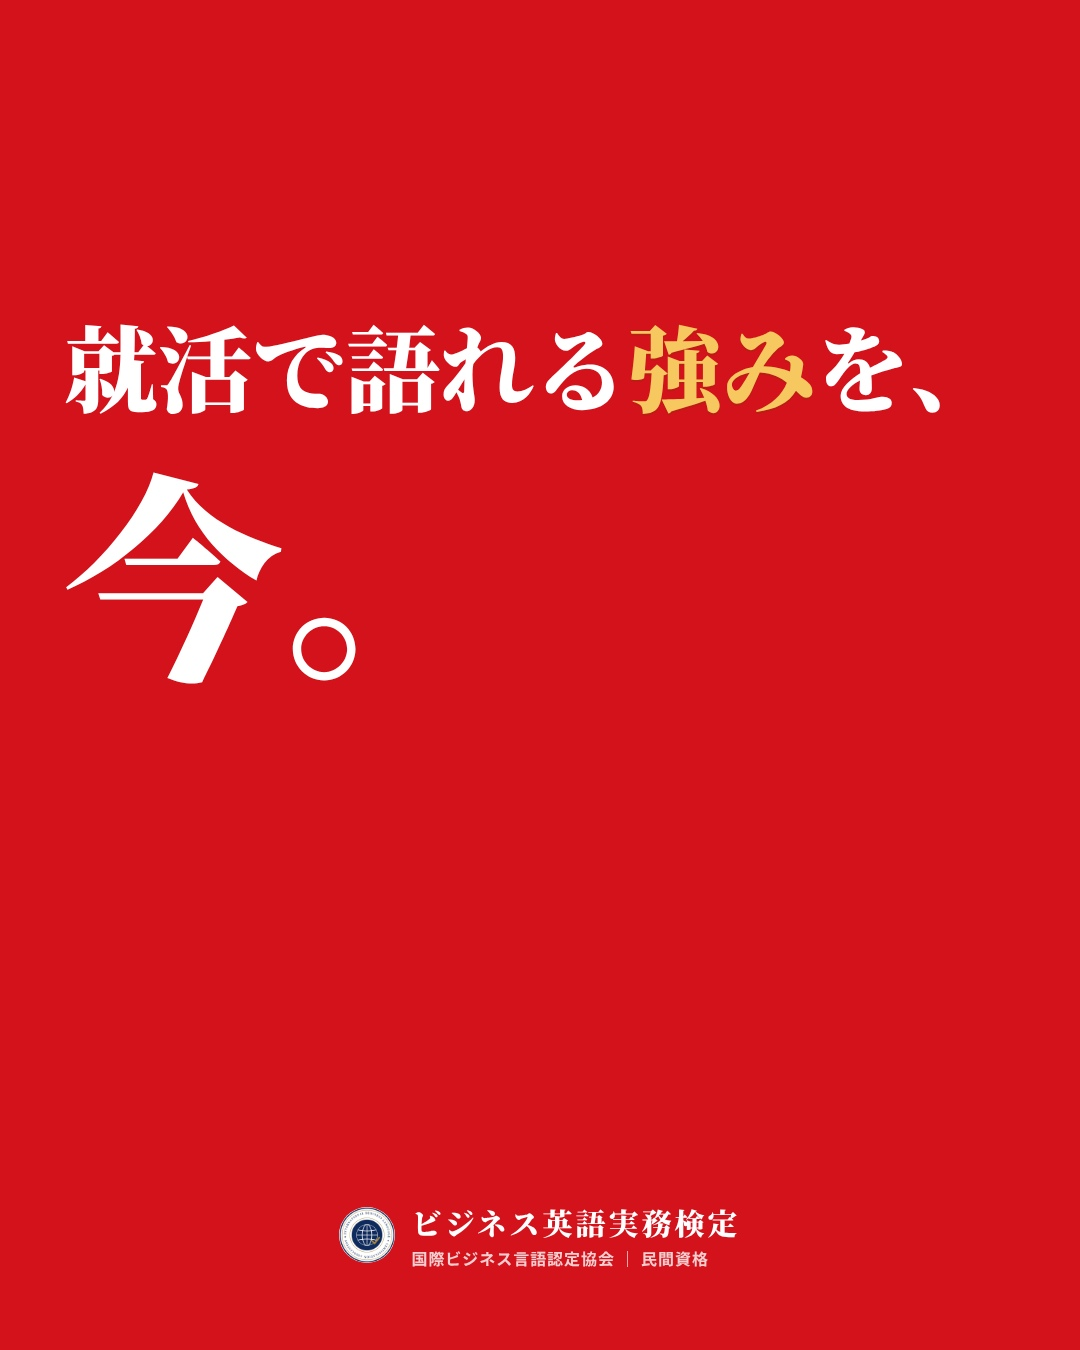
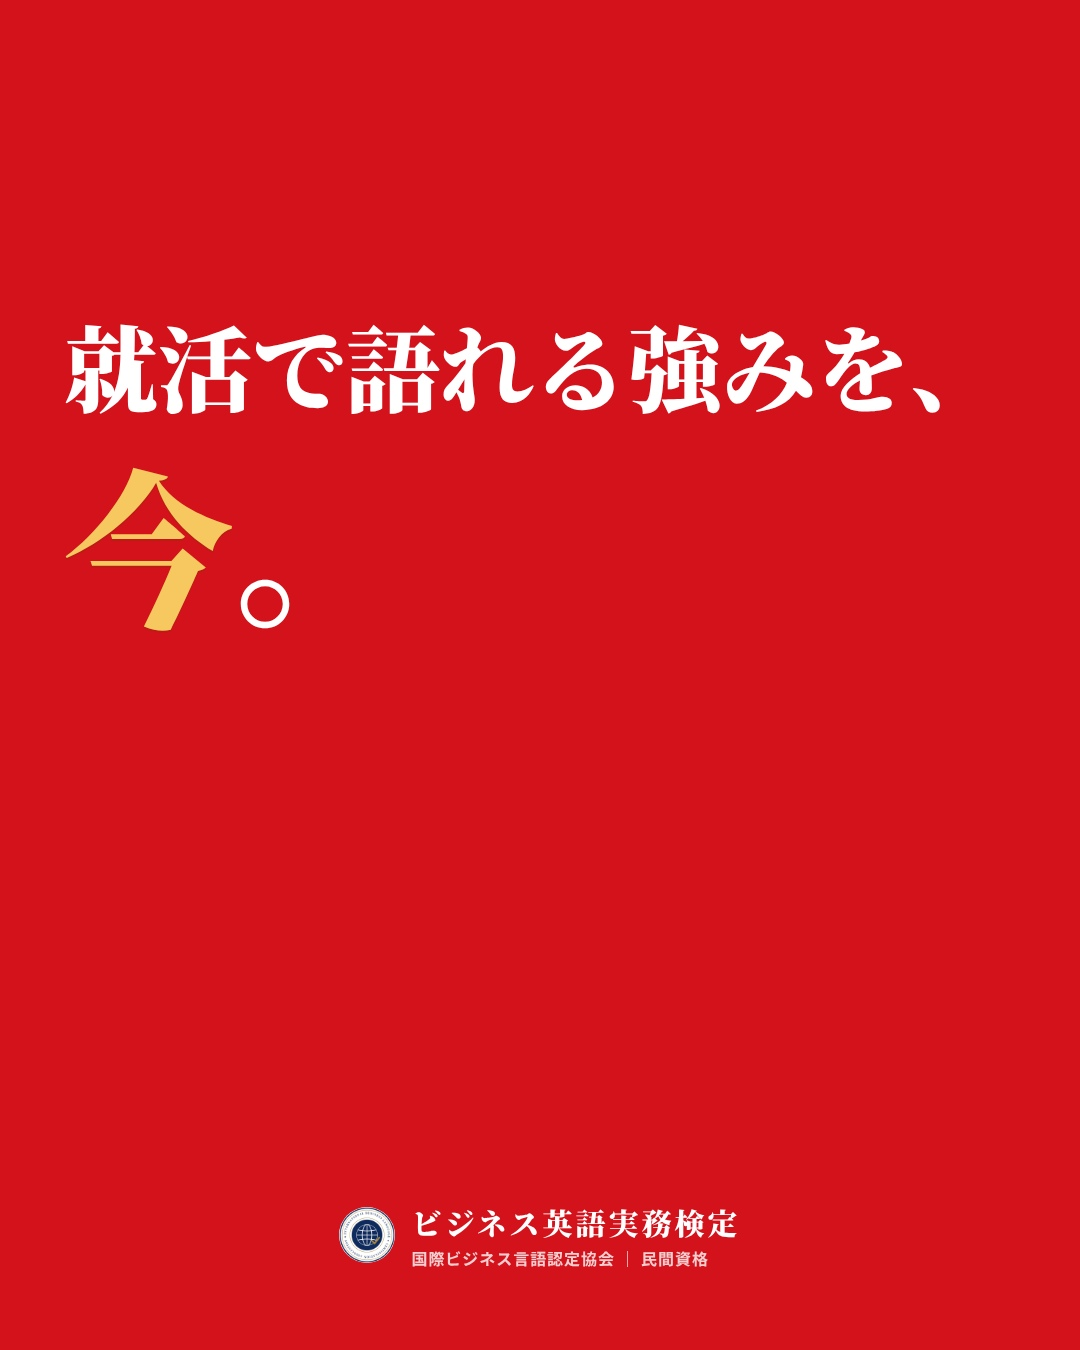
ポスター J3：今を金に
Claude-Session: https://claude.ai/code/session_014p5jKzC7vmuyPAkeTgUdi2

Changed region(s): [[0.0611, 0.3422, 0.3361, 0.5289], [0.5806, 0.2178, 0.7639, 0.3111]]

diff --git a/content/posters/formats/j3.html b/content/posters/formats/j3.html
@@ -10,7 +10,7 @@ body{background:#d3121c;color:#fff;font-family:"Noto Serif CJK JP",serif;-webkit
 .ft{position:absolute;left:0;right:0;bottom:80px;display:flex;align-items:center;justify-content:center;gap:16px}
 .ft img{width:56px;height:56px;border-radius:50%;background:#fff}.ft .n{font-weight:900;font-size:30px;letter-spacing:.1em}
 .ft .s{font-family:"Noto Sans CJK JP";font-weight:700;font-size:16px;letter-spacing:.06em;opacity:.8;margin-top:2px}
-.g{color:#f6c85f;text-shadow:0 2px 0 rgba(120,60,0,.25)}.s1{font-size:94px}.s2{font-size:220px;line-height:1.25}</style></head><body>
-<div class="w"><div class="b"><span class="s1">就活で語れる<span class="g">強み</span>を、</span><br><span class="s2">今。</span></div></div>
+.g{color:#f6c85f;text-shadow:0 2px 0 rgba(120,60,0,.25)}.s1{font-size:94px}.s2{font-size:170px;line-height:1.3}</style></head><body>
+<div class="w"><div class="b"><span class="s1">就活で語れる強みを、</span><br><span class="s2"><span class="g">今</span>。</span></div></div>
 <div class="ft"><img src="logo.png"><div><div class="n">ビジネス英語実務検定</div><div class="s">国際ビジネス言語認定協会 ｜ 民間資格</div></div></div>
 </body></html>

diff --git a/log/posted.md b/log/posted.md
@@ -157,3 +157,4 @@
 - 2026-11-02 作成｜ポスター J1「今から、就活で語れる強みを。」／J2「就活で語れる強みを、今。」（強みは金）｜サンプル・未投稿
 - 2026-11-02 修正｜ポスター J2：「今。」だけ別の行に
 - 2026-11-02 作成｜ポスター J3「就活で語れる強みを、／今。」2行版（今。を大きく）｜未投稿
+- 2026-11-02 修正｜ポスター J3：今を少し小さく金に、強みは白に
